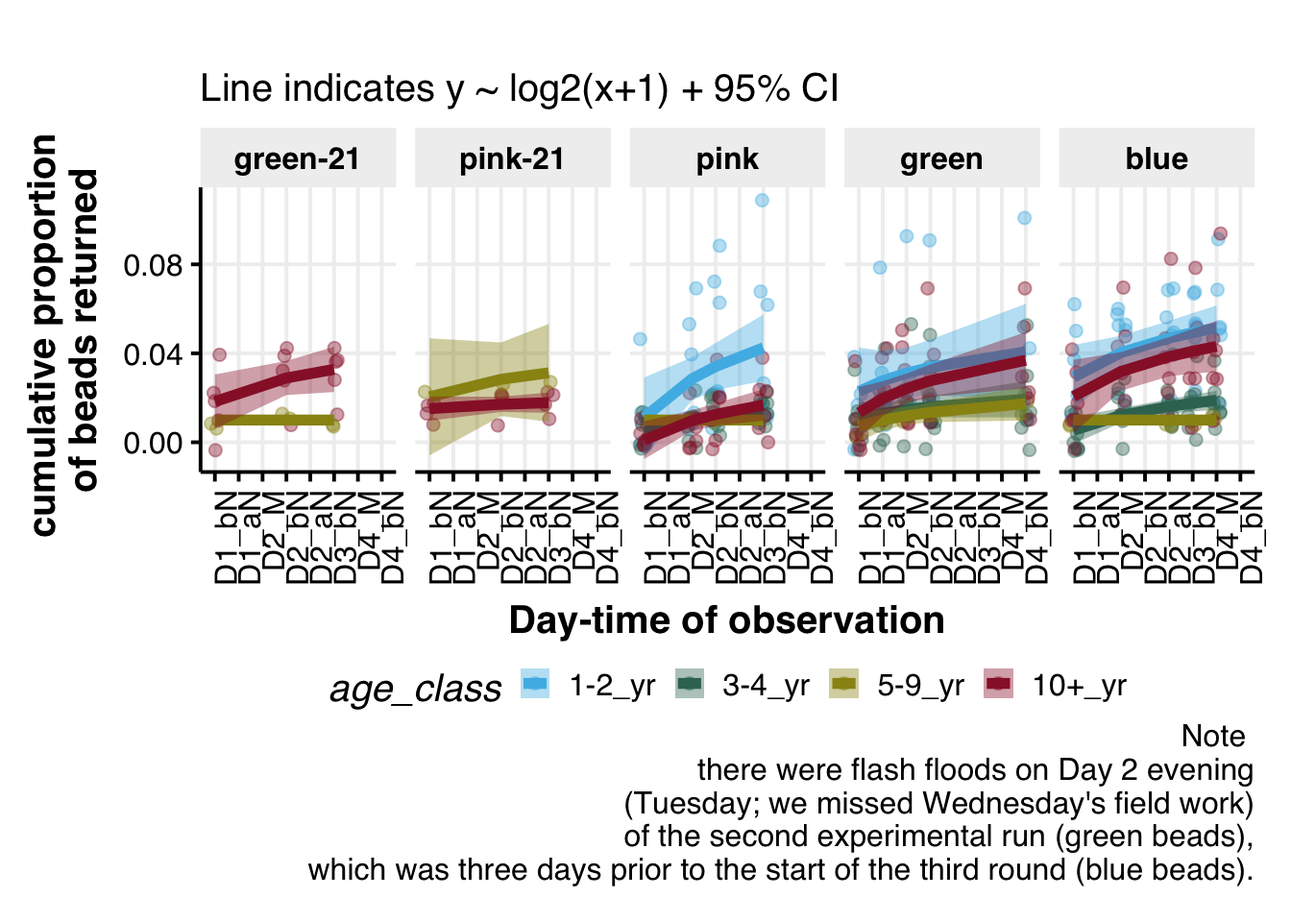
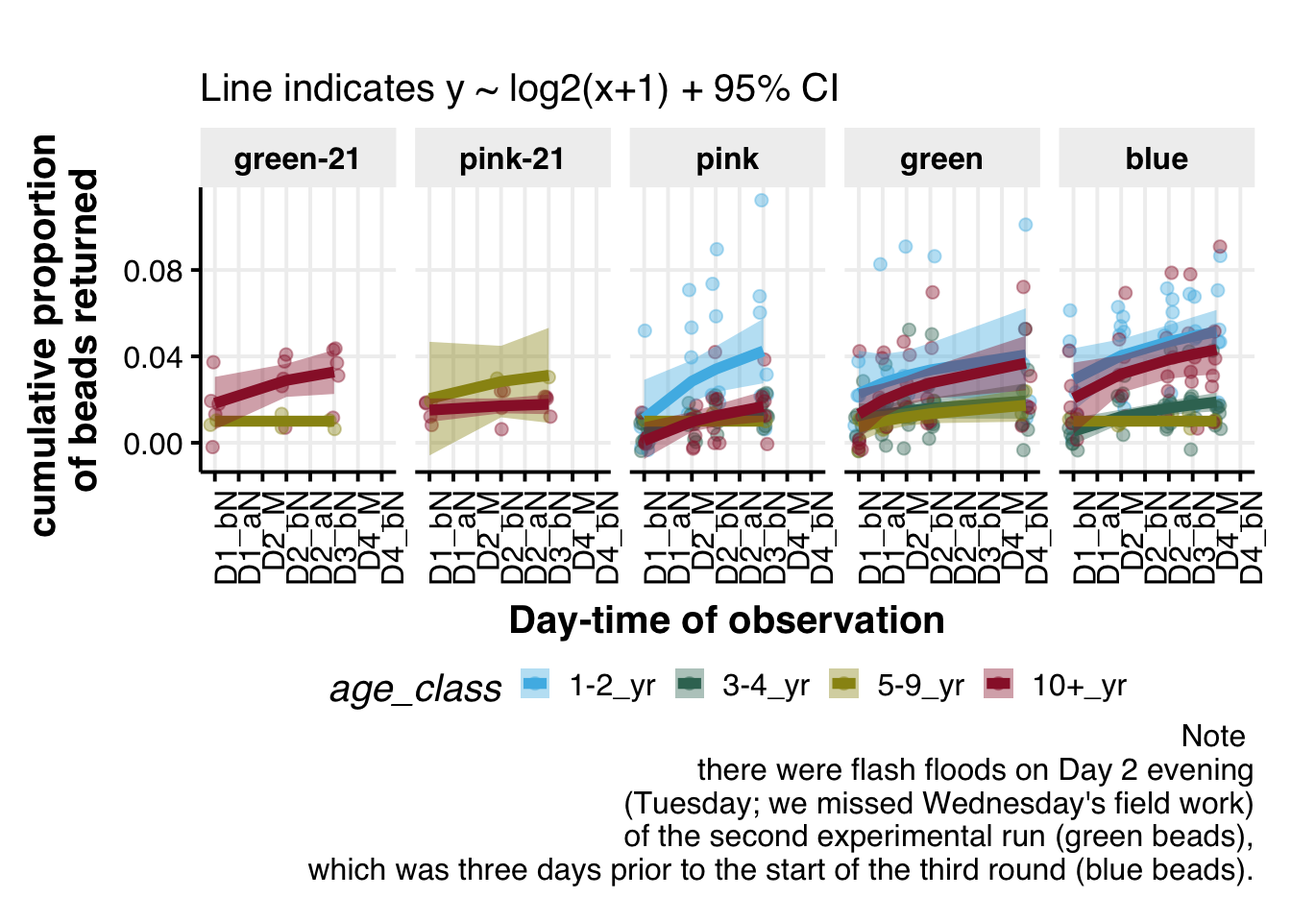
added forging data for bead colonies

diff --git a/docs/bead_data_2022.html b/docs/bead_data_2022.html
@@ -437,7 +437,7 @@ div.tocify {
 
 <h1 class="title toc-ignore">Deborah_bead_data</h1>
 <h4 class="author">Biplabendu Das</h4>
-<h4 class="date">07 September, 2022</h4>
+<h4 class="date">11 September, 2022</h4>
 
 </div>
 
@@ -1136,6 +1136,7 @@ s.tidydat.2022 &lt;-
   select(colonyID:bead_color,
          age_2022:age_class, 
          beads_collected,
+         foraging_30s,
          counted_when, cum_prop, s_cum_prop)
 
 
@@ -1158,7 +1159,7 @@ s.tidydat.2021 &lt;-
   mutate(colonyID = as.double(colonyID)) %&gt;%
   right_join(old.summ, by=c(&quot;colonyID&quot;, &quot;date&quot;, &quot;bead_color&quot;)) %&gt;% 
   
-  group_by(colonyID,bead_color) %&gt;% 
+  group_by(colonyID,bead_color) %&gt;%  
   mutate(foraging_30s = foraging_30s[1]) %&gt;% 
   mutate(obs_day = paste0(&quot;D&quot;,obs_day[1])) %&gt;% 
   ungroup() %&gt;% 
@@ -1171,6 +1172,7 @@ s.tidydat.2021 &lt;-
   select(colonyID:bead_color,
          age_2022:age_class, 
          beads_collected,
+         foraging_30s,
          counted_when, cum_prop, s_cum_prop)
 
 
@@ -1189,6 +1191,95 @@ s.tidydat &lt;-
   mutate(age_class = factor(age_class, 
                             levels = c(&quot;1-2_yr&quot;, &quot;3-4_yr&quot;,
                                        &quot;5-9_yr&quot;, &quot;10+_yr&quot;)))</code></pre>
+<div id="compare-foraging-across-age-class" class="section level3">
+<h3>Compare foraging across age-class</h3>
+<pre class="r"><code>s.tidydat %&gt;% 
+  select(colonyID, bead_color, age_obs, age_class, foraging_30s) %&gt;% 
+  distinct() %&gt;%
+  
+  # group_by(age_obs) %&gt;%
+  # summarize(n_unique = length(unique(colonyID)))
+  
+  ggplot(aes(x=as.factor(age_obs), y=foraging_30s)) +
+  
+  geom_violin(alpha=0.7) +
+    
+    geom_jitter(width = 0.1, size=3, alpha=0.6, 
+                aes(fill=as.factor(colonyID)), 
+                shape=21) +
+  
+    
+    # facet_wrap(bead_color~., nrow = 2) +
+    
+    # stat_summary(fun = mean, geom = &quot;point&quot;, col=&quot;black&quot;,
+    #              size=10, alpha=0.8,
+    #              position=position_nudge(x = 0.3, y = 0)) +
+    # stat_summary(fun.data = mean_cl_boot,
+    #              size=2, alpha = 0.8,
+    #              geom = &quot;errorbar&quot;, width = 0.2, fun.args = list(conf.int = 0.95),
+    #              position=position_nudge(x = 0.3, y = 0)) +
+
+    theme_Publication(base_size = 13) +
+
+    labs(title = &quot;Colony foraging across different age-groups&quot;,
+       subtitle = &quot;observations made on Day1 of bead expmts.&quot;,
+       y = &quot;activity \n(mean ± 95% CI)&quot;,
+       x = &quot;age-groups&quot;) +
+  
+    # scale_color_discrete() +
+    # scale_fill_discrete() +
+
+    # theme(legend.position=&quot;none&quot;) +
+
+    theme(plot.subtitle=element_text(hjust=0.5, size=10),
+          legend.title = element_blank()) +
+    theme(legend.position=&quot;bottom&quot;)</code></pre>
+<p><img src="bead_data_2022_files/figure-html/plot_foraging_ageclass-1.png" width="672" /></p>
+<pre class="r"><code>which.colonies &lt;- s.tidydat %&gt;% select(colonyID, age_obs, age_class) %&gt;% distinct()
+
+tidy.for %&gt;% 
+  select(date, colonyID=colony_ID, foraging_30s) %&gt;% 
+  right_join(which.colonies, by=&quot;colonyID&quot;) %&gt;% 
+  
+  ggplot(aes(x=as.factor(age_obs), y=foraging_30s)) +
+  
+  geom_boxplot(alpha=0.7) +
+    
+    geom_jitter(width = 0.1, size=2, alpha=0.6, 
+                aes(shape=as.factor(age_class))) +
+  
+    
+    # facet_wrap(bead_color~., nrow = 2) +
+    
+  stat_summary(fun.data = mean_cl_boot,
+                 col=&quot;red&quot;,
+                 size=1, alpha = 0.8,
+                 geom = &quot;errorbar&quot;, width = 0.2, fun.args = list(conf.int = 0.95),
+                 position=position_nudge(x = 0.4, y = 0)) +
+  stat_summary(fun = mean, geom = &quot;point&quot;, 
+               col=age_colors[4],
+                 size=4, alpha=0.9,
+                 position=position_nudge(x = 0.4, y = 0)) +
+
+    theme_Publication(base_size = 13) +
+
+    labs(title = &quot;Colony foraging across different age-groups&quot;,
+       subtitle = &quot;all observations made on bead colonies&quot;,
+       y = &quot;activity \n(mean ± 95% CI)&quot;,
+       x = &quot;age-groups&quot;) +
+  
+    # scale_color_discrete() +
+    # scale_fill_discrete() +
+
+    # theme(legend.position=&quot;none&quot;) +
+
+    theme(plot.subtitle=element_text(hjust=0.5, size=10),
+          legend.title = element_blank()) +
+    theme(legend.position=&quot;bottom&quot;)</code></pre>
+<p><img src="bead_data_2022_files/figure-html/plot_foraging_ageclass-2.png" width="672" /></p>
+</div>
+<div id="plot-normalized-bead-returns" class="section level3">
+<h3>Plot normalized bead returns</h3>
 <pre class="r"><code>s.tidydat %&gt;% 
   
   ggplot(aes(x=counted_when, y=s_cum_prop, fill=age_class, color=age_class, group=age_class)) +
@@ -1297,6 +1388,7 @@ s.tidydat %&gt;%
        data shown for all three rounds of bead experiment&quot;)</code></pre>
 <p><img src="bead_data_2022_files/figure-html/plot_normalized_bead_returns-3.png" width="672" /></p>
 </div>
+</div>
 <div id="prelim-analyses-i" class="section level2">
 <h2>Prelim Analyses I</h2>
 <pre class="r"><code>s.tidydat.mod &lt;- s.tidydat %&gt;% mutate(log_s_cum_prop = log2(s_cum_prop+1))
@@ -1357,8 +1449,8 @@ afex::mixed(log_s_cum_prop ~ age_class + counted_when + (1|colonyID) + (1|bead_c
 <pre class="r"><code>s.tidydat %&gt;% 
   select(colonyID, age_obs, bead_color, date, counted_when, cum_prop, s_cum_prop) %&gt;% 
   DT::datatable(rownames = F)</code></pre>
-<div id="htmlwidget-a4a7814db74a3252d700" style="width:100%;height:auto;" class="datatables html-widget"></div>
-<script type="application/json" data-for="htmlwidget-a4a7814db74a3252d700">{"x":{"filter":"none","data":[["810","810","810","810","810","810","922","922","922","922","922","922","961","961","961","969","969","969","1131","1131","1131","1131","1131","1131","1288","1288","1288","1338","1338","1338","1368","1368","1368","1393","1393","1393","1581","1581","1581","1581","1587","1587","1587","1587","1570","1570","1570","1570","1541","1541","1541","1541","1542","1542","1542","1542","1571","1571","1571","1571","1536","1536","1536","1536","1536","1536","1536","1536","1587","1587","1587","1587","1587","1570","1570","1570","1570","1570","1541","1541","1541","1541","1541","1542","1542","1542","1542","1542","1533","1533","1533","1533","1533","1552","1552","1552","1552","1552","1581","1581","1581","1581","1581","1587","1587","1587","1587","1587","1541","1541","1541","1541","1541","1542","1542","1542","1542","1542","1536","1536","1536","1536","1536","1533","1533","1533","1533","1533","1504","1504","1504","1504","1506","1506","1506","1506","1512","1512","1512","1512","1559","1559","1559","1559","1486","1486","1486","1486","1504","1504","1504","1504","1504","1506","1506","1506","1506","1506","1512","1512","1512","1512","1512","1559","1559","1559","1559","1559","1486","1486","1486","1486","1486","1503","1503","1503","1503","1503","1512","1512","1512","1512","1512","1559","1559","1559","1559","1559","1546","1546","1546","1546","1546","1486","1486","1486","1486","1486","1503","1503","1503","1503","1503","1452","1452","1452","1452","1450","1450","1450","1450","1440","1440","1440","1440","1452","1452","1452","1452","1452","1450","1450","1450","1450","1450","1452","1452","1452","1452","1452","1450","1450","1450","1450","1450","1440","1440","1440","1440","1440","1393","1393","1393","1393","1393","1393","1393","1393","1393","1393","1368","1368","1368","1368","1368","1368","1368","1368","1368","1368","1368","1368","1368","1368","1288","1288","1288","1288","1317","1317","1317","1317","1317","1288","1288","1288","1288","1288","1233","1233","1233","1233","1242","1242","1242","1242","1233","1233","1233","1233","1233","1242","1242","1242","1242","1242","1233","1233","1233","1233","1233","1242","1242","1242","1242","1242","1107","1107","1107","1107","1107","1107","1107","1107","1107","1017","1017","1017","1017","1017","1017","1017","1017","1017","1017","1131","1131","1131","1131","1131","1131","1131","1131","1131","810","810","810","810","810","810","810","810","810","810","810","810","810","810"],[24,24,24,24,24,24,21,21,21,21,21,21,21,21,21,21,21,21,20,20,20,20,20,20,10,10,10,7,7,7,7,7,7,6,6,6,2,2,2,2,2,2,2,2,2,2,2,2,2,2,2,2,2,2,2,2,2,2,2,2,2,2,2,2,2,2,2,2,2,2,2,2,2,2,2,2,2,2,2,2,2,2,2,2,2,2,2,2,2,2,2,2,2,2,2,2,2,2,2,2,2,2,2,2,2,2,2,2,2,2,2,2,2,2,2,2,2,2,2,2,2,2,2,2,2,2,2,2,3,3,3,3,3,3,3,3,3,3,3,3,3,3,3,3,3,3,3,3,3,3,3,3,3,3,3,3,3,3,3,3,3,3,3,3,3,3,3,3,3,3,3,3,3,3,3,3,3,3,3,3,3,3,3,3,3,3,3,3,3,3,3,3,3,3,3,3,3,3,3,3,3,3,3,4,4,4,4,4,4,4,4,4,4,4,4,4,4,4,4,4,4,4,4,4,4,4,4,4,4,4,4,4,4,4,4,4,4,4,4,4,7,7,7,7,7,7,7,7,7,7,8,8,8,8,8,8,8,8,8,8,8,8,8,8,11,11,11,11,11,11,11,11,11,11,11,11,11,11,12,12,12,12,12,12,12,12,12,12,12,12,12,12,12,12,12,12,12,12,12,12,12,12,12,12,12,12,17,17,17,17,17,17,17,17,17,20,20,20,20,20,20,20,20,20,20,21,21,21,21,21,21,21,21,21,25,25,25,25,25,25,25,25,25,25,25,25,25,25],["green-21","green-21","green-21","pink-21","pink-21","pink-21","green-21","green-21","green-21","pink-21","pink-21","pink-21","green-21","green-21","green-21","green-21","green-21","green-21","green-21","green-21","green-21","pink-21","pink-21","pink-21","pink-21","pink-21","pink-21","green-21","green-21","green-21","pink-21","pink-21","pink-21","green-21","green-21","green-21","pink","pink","pink","pink","pink","pink","pink","pink","pink","pink","pink","pink","pink","pink","pink","pink","pink","pink","pink","pink","pink","pink","pink","pink","pink","pink","pink","pink","pink","pink","pink","pink","green","green","green","green","green","green","green","green","green","green","green","green","green","green","green","green","green","green","green","green","green","green","green","green","green","blue","blue","blue","blue","blue","blue","blue","blue","blue","blue","blue","blue","blue","blue","blue","blue","blue","blue","blue","blue","blue","blue","blue","blue","blue","blue","blue","blue","blue","blue","blue","blue","blue","blue","blue","pink","pink","pink","pink","pink","pink","pink","pink","pink","pink","pink","pink","pink","pink","pink","pink","pink","pink","pink","pink","green","green","green","green","green","green","green","green","green","green","green","green","green","green","green","green","green","green","green","green","green","green","green","green","green","green","green","green","green","green","blue","blue","blue","blue","blue","blue","blue","blue","blue","blue","blue","blue","blue","blue","blue","blue","blue","blue","blue","blue","blue","blue","blue","blue","blue","pink","pink","pink","pink","pink","pink","pink","pink","pink","pink","pink","pink","green","green","green","green","green","green","green","green","green","green","blue","blue","blue","blue","blue","blue","blue","blue","blue","blue","blue","blue","blue","blue","blue","green","green","green","green","green","blue","blue","blue","blue","blue","pink","pink","pink","pink","green","green","green","green","green","blue","blue","blue","blue","blue","pink","pink","pink","pink","blue","blue","blue","blue","blue","blue","blue","blue","blue","blue","pink","pink","pink","pink","pink","pink","pink","pink","green","green","green","green","green","green","green","green","green","green","blue","blue","blue","blue","blue","blue","blue","blue","blue","blue","pink","pink","pink","pink","green","green","green","green","green","green","green","green","green","green","blue","blue","blue","blue","blue","pink","pink","pink","pink","green","green","green","green","green","pink","pink","pink","pink","green","green","green","green","green","blue","blue","blue","blue","blue"],["2021-08-24","2021-08-25","2021-08-26","2021-08-26","2021-08-27","2021-08-28","2021-08-23","2021-08-24","2021-08-25","2021-08-25","2021-08-26","2021-08-27","2021-08-24","2021-08-25","2021-08-26","2021-08-24","2021-08-25","2021-08-26","2021-08-23","2021-08-24","2021-08-25","2021-08-25","2021-08-26","2021-08-27","2021-08-26","2021-08-27","2021-08-28","2021-08-23","2021-08-24","2021-08-25","2021-08-25","2021-08-26","2021-08-27","2021-08-23","2021-08-24","2021-08-25","2022-08-16","2022-08-16","2022-08-16","2022-08-16","2022-08-16","2022-08-16","2022-08-16","2022-08-16","2022-08-16","2022-08-16","2022-08-16","2022-08-16","2022-08-16","2022-08-16","2022-08-16","2022-08-16","2022-08-16","2022-08-16","2022-08-16","2022-08-16","2022-08-16","2022-08-16","2022-08-16","2022-08-16","2022-08-16","2022-08-16","2022-08-16","2022-08-16","2022-08-16","2022-08-16","2022-08-16","2022-08-16","2022-08-22","2022-08-22","2022-08-22","2022-08-22","2022-08-22","2022-08-22","2022-08-22","2022-08-22","2022-08-22","2022-08-22","2022-08-22","2022-08-22","2022-08-22","2022-08-22","2022-08-22","2022-08-22","2022-08-22","2022-08-22","2022-08-22","2022-08-22","2022-08-22","2022-08-22","2022-08-22","2022-08-22","2022-08-22","2022-08-26","2022-08-26","2022-08-26","2022-08-26","2022-08-26","2022-08-26","2022-08-26","2022-08-26","2022-08-26","2022-08-26","2022-08-26","2022-08-26","2022-08-26","2022-08-26","2022-08-26","2022-08-26","2022-08-26","2022-08-26","2022-08-26","2022-08-26","2022-08-26","2022-08-26","2022-08-26","2022-08-26","2022-08-26","2022-08-26","2022-08-26","2022-08-26","2022-08-26","2022-08-26","2022-08-26","2022-08-26","2022-08-26","2022-08-26","2022-08-26","2022-08-16","2022-08-16","2022-08-16","2022-08-16","2022-08-16","2022-08-16","2022-08-16","2022-08-16","2022-08-16","2022-08-16","2022-08-16","2022-08-16","2022-08-16","2022-08-16","2022-08-16","2022-08-16","2022-08-16","2022-08-16","2022-08-16","2022-08-16","2022-08-22","2022-08-22","2022-08-22","2022-08-22","2022-08-22","2022-08-22","2022-08-22","2022-08-22","2022-08-22","2022-08-22","2022-08-22","2022-08-22","2022-08-22","2022-08-22","2022-08-22","2022-08-22","2022-08-22","2022-08-22","2022-08-22","2022-08-22","2022-08-22","2022-08-22","2022-08-22","2022-08-22","2022-08-22","2022-08-22","2022-08-22","2022-08-22","2022-08-22","2022-08-22","2022-08-26","2022-08-26","2022-08-26","2022-08-26","2022-08-26","2022-08-26","2022-08-26","2022-08-26","2022-08-26","2022-08-26","2022-08-26","2022-08-26","2022-08-26","2022-08-26","2022-08-26","2022-08-26","2022-08-26","2022-08-26","2022-08-26","2022-08-26","2022-08-26","2022-08-26","2022-08-26","2022-08-26","2022-08-26","2022-08-16","2022-08-16","2022-08-16","2022-08-16","2022-08-16","2022-08-16","2022-08-16","2022-08-16","2022-08-16","2022-08-16","2022-08-16","2022-08-16","2022-08-22","2022-08-22","2022-08-22","2022-08-22","2022-08-22","2022-08-22","2022-08-22","2022-08-22","2022-08-22","2022-08-22","2022-08-26","2022-08-26","2022-08-26","2022-08-26","2022-08-26","2022-08-26","2022-08-26","2022-08-26","2022-08-26","2022-08-26","2022-08-26","2022-08-26","2022-08-26","2022-08-26","2022-08-26","2022-08-22","2022-08-22","2022-08-22","2022-08-22","2022-08-22","2022-08-26","2022-08-26","2022-08-26","2022-08-26","2022-08-26","2022-08-16","2022-08-16","2022-08-16","2022-08-16","2022-08-22","2022-08-22","2022-08-22","2022-08-22","2022-08-22","2022-08-26","2022-08-26","2022-08-26","2022-08-26","2022-08-26","2022-08-16","2022-08-16","2022-08-16","2022-08-16","2022-08-26","2022-08-26","2022-08-26","2022-08-26","2022-08-26","2022-08-26","2022-08-26","2022-08-26","2022-08-26","2022-08-26","2022-08-16","2022-08-16","2022-08-16","2022-08-16","2022-08-16","2022-08-16","2022-08-16","2022-08-16","2022-08-22","2022-08-22","2022-08-22","2022-08-22","2022-08-22","2022-08-22","2022-08-22","2022-08-22","2022-08-22","2022-08-22","2022-08-26","2022-08-26","2022-08-26","2022-08-26","2022-08-26","2022-08-26","2022-08-26","2022-08-26","2022-08-26","2022-08-26","2022-08-16","2022-08-16","2022-08-16","2022-08-16","2022-08-22","2022-08-22","2022-08-22","2022-08-22","2022-08-22","2022-08-22","2022-08-22","2022-08-22","2022-08-22","2022-08-22","2022-08-26","2022-08-26","2022-08-26","2022-08-26","2022-08-26","2022-08-16","2022-08-16","2022-08-16","2022-08-16","2022-08-22","2022-08-22","2022-08-22","2022-08-22","2022-08-22","2022-08-16","2022-08-16","2022-08-16","2022-08-16","2022-08-22","2022-08-22","2022-08-22","2022-08-22","2022-08-22","2022-08-26","2022-08-26","2022-08-26","2022-08-26","2022-08-26"],["D1_bN","D2_bN","D3_bN","D1_bN","D2_bN","D3_bN","D1_bN","D2_bN","D3_bN","D1_bN","D2_bN","D3_bN","D1_bN","D2_bN","D3_bN","D1_bN","D2_bN","D3_bN","D1_bN","D2_bN","D3_bN","D1_bN","D2_bN","D3_bN","D1_bN","D2_bN","D3_bN","D1_bN","D2_bN","D3_bN","D1_bN","D2_bN","D3_bN","D1_bN","D2_bN","D3_bN","D1_bN","D2_M","D2_bN","D3_bN","D1_bN","D2_M","D2_bN","D3_bN","D1_bN","D2_M","D2_bN","D3_bN","D1_bN","D2_M","D2_bN","D3_bN","D1_bN","D2_M","D2_bN","D3_bN","D1_bN","D2_M","D2_bN","D3_bN","D1_bN","D1_bN","D2_M","D2_M","D2_bN","D2_bN","D3_bN","D3_bN","D1_bN","D1_aN","D2_M","D2_bN","D4_bN","D1_bN","D1_aN","D2_M","D2_bN","D4_bN","D1_bN","D1_aN","D2_M","D2_bN","D4_bN","D1_bN","D1_aN","D2_M","D2_bN","D4_bN","D1_bN","D1_aN","D2_M","D2_bN","D4_bN","D1_bN","D2_M","D2_aN","D3_bN","D4_M","D1_bN","D2_M","D2_aN","D3_bN","D4_M","D1_bN","D2_M","D2_aN","D3_bN","D4_M","D1_bN","D2_M","D2_aN","D3_bN","D4_M","D1_bN","D2_M","D2_aN","D3_bN","D4_M","D1_bN","D2_M","D2_aN","D3_bN","D4_M","D1_bN","D2_M","D2_aN","D3_bN","D4_M","D1_bN","D2_M","D2_bN","D3_bN","D1_bN","D2_M","D2_bN","D3_bN","D1_bN","D2_M","D2_bN","D3_bN","D1_bN","D2_M","D2_bN","D3_bN","D1_bN","D2_M","D2_bN","D3_bN","D1_bN","D1_aN","D2_M","D2_bN","D4_bN","D1_bN","D1_aN","D2_M","D2_bN","D4_bN","D1_bN","D1_aN","D2_M","D2_bN","D4_bN","D1_bN","D1_aN","D2_M","D2_bN","D4_bN","D1_bN","D1_aN","D2_M","D2_bN","D4_bN","D1_bN","D1_aN","D2_M","D2_bN","D4_bN","D1_bN","D2_M","D2_aN","D3_bN","D4_M","D1_bN","D2_M","D2_aN","D3_bN","D4_M","D1_bN","D2_M","D2_aN","D3_bN","D4_M","D1_bN","D2_M","D2_aN","D3_bN","D4_M","D1_bN","D2_M","D2_aN","D3_bN","D4_M","D1_bN","D2_M","D2_bN","D3_bN","D1_bN","D2_M","D2_bN","D3_bN","D1_bN","D2_M","D2_bN","D3_bN","D1_bN","D1_aN","D2_M","D2_bN","D4_bN","D1_bN","D1_aN","D2_M","D2_bN","D4_bN","D1_bN","D2_M","D2_aN","D3_bN","D4_M","D1_bN","D2_M","D2_aN","D3_bN","D4_M","D1_bN","D2_M","D2_aN","D3_bN","D4_M","D1_bN","D1_aN","D2_M","D2_bN","D4_bN","D1_bN","D2_M","D2_aN","D3_bN","D4_M","D1_bN","D2_M","D2_bN","D3_bN","D1_bN","D1_aN","D2_M","D2_bN","D4_bN","D1_bN","D2_M","D2_aN","D3_bN","D4_M","D1_bN","D2_M","D2_bN","D3_bN","D1_bN","D2_M","D2_aN","D3_bN","D4_M","D1_bN","D2_M","D2_aN","D3_bN","D4_M","D1_bN","D2_M","D2_bN","D3_bN","D1_bN","D2_M","D2_bN","D3_bN","D1_bN","D1_aN","D2_M","D2_bN","D4_bN","D1_bN","D1_aN","D2_M","D2_bN","D4_bN","D1_bN","D2_M","D2_aN","D3_bN","D4_M","D1_bN","D2_M","D2_aN","D3_bN","D4_M","D1_bN","D2_M","D2_bN","D3_bN","D1_bN","D1_aN","D2_M","D2_bN","D4_bN","D1_bN","D1_aN","D2_M","D2_bN","D4_bN","D1_bN","D2_M","D2_aN","D3_bN","D4_M","D1_bN","D2_M","D2_bN","D3_bN","D1_bN","D1_aN","D2_M","D2_bN","D4_bN","D1_bN","D2_M","D2_bN","D3_bN","D1_bN","D1_aN","D2_M","D2_bN","D4_bN","D1_bN","D2_M","D2_aN","D3_bN","D4_M"],[0.6,0.92,0.98,0.58,0.76,0.88,0.8,0.8,0.82,0.62,0.7,0.74,0.36,0.78,0.88,0.52,0.92,0.94,0.22,0.58,0.72,0.64,0.7,0.76,0.92,0.96,1,0.6,0.74,0.82,0.7,0.775,0.775,0.96,0.96,0.98,0.59,0.64,0.74,0.76,0.6,0.6,0.86,0.88,0.06,0.33,0.62,0.74,0.2,0.28,0.44,0.46,0.65,0.85,0.87,0.87,0.06,0.58,0.87,0.87,0.04,0.04,0.33,0.33,0.44,0.44,0.53,0.53,0.28,0.64,0.7,0.7,0.76,0.4,0.64,0.66,0.7,0.78,0.58,0.92,0.94,0.96,1,0.22,0.74,0.84,0.84,0.86,0.88,1.08,1.14,1.14,1.14,0.73,0.85,0.87,0.85,0.85,0.76,0.86,0.9,0.86,0.86,0.5,0.56,0.62,0.62,0.64,0.08,0.68,0.82,0.68,0.74,0.22,0.74,0.8,0.76,0.76,0,0.42,0.48,0.52,0.6,0.82,0.88,0.88,0.92,0.92,0.44,0.58,0.6,0.64,0.14,0.5,0.62,0.74,0.44,0.44,0.72,0.72,0.34,0.36,0.68,0.82,0.5,0.56,0.82,0.82,0.19,0.59,0.69,0.71,0.71,0.36,0.68,0.76,0.86,0.86,0.45,0.61,0.67,0.77,0.79,0.8,0.9,0.9,0.92,0.96,0.3,0.36,0.36,0.36,0.38,0.57,0.75,0.77,0.77,0.77,0.26,0.84,0.84,0.88,0.88,0.36,0.84,0.94,0.88,0.88,0.16,0.66,0.72,0.72,0.74,0.16,0.42,0.72,0.54,0.6,0.04,0.66,0.8,0.74,0.74,0.02,0.18,0.28,0.42,0.41,0.45,0.57,0.63,0.48,0.7,0.7,0.88,0.44,0.44,0.68,0.68,0.82,0.42,0.8,0.8,0.82,0.82,0.16,0.78,0.78,0.8,0.82,0.2,0.88,0.92,0.88,0.88,0.9,1.02,1.02,1.02,1.02,0.28,0.62,0.64,0.68,0.68,0.54,0.62,0.68,0.66,0.66,0.4,0.5,0.62,0.72,0.6,0.72,0.94,0.96,0.96,0.94,0.96,0.96,0.96,0.96,0.34,0.58,0.58,0.6,0,0.19,0.19,0.28,0.28,0.38,0.72,0.76,0.74,0.74,0.12,0.42,0.78,0.82,0,0,0.06,0.1,0.56,0.88,0.9,0.92,0.92,0.04,0.32,0.32,0.36,0.4,0.7,0.88,0.94,0.9,0.9,0.12,0.48,0.56,0.54,0.64,0.04,0.22,0.8,0.8,0.22,0.22,0.32,0.42,0.42,0.07,0.41,0.46,0.53,0.58,0.66,0.94,0.96,0.94,0.94,0.1,0.14,0.66,0.66,0,0.42,0.74,0.76,0.76,0.04,0.1,0.32,0.32,0.08,0.34,0.58,0.62,0.64,0.82,0.86,0.9,0.9,0.9],[0.02,0.03,0.03,0.01,0.02,0.02,0.04,0.04,0.04,0.02,0.02,0.02,0.01,0.03,0.04,0.02,0.04,0.04,0,0.01,0.01,0.01,0.01,0.01,0.02,0.02,0.02,0.01,0.01,0.01,0.02,0.03,0.03,0.01,0.01,0.01,0.01,0.01,0.02,0.02,0.05,0.05,0.07,0.07,0,0.01,0.02,0.03,0.01,0.01,0.02,0.02,0.01,0.01,0.01,0.01,0,0.04,0.06,0.06,0,0.01,0.01,0.07,0.01,0.09,0.01,0.11,0.04,0.08,0.09,0.09,0.1,0.02,0.03,0.03,0.03,0.04,0.01,0.02,0.02,0.02,0.02,0,0.01,0.01,0.01,0.01,0.02,0.02,0.02,0.02,0.02,0.05,0.05,0.05,0.05,0.05,0.04,0.05,0.05,0.05,0.05,0.06,0.06,0.07,0.07,0.07,0.01,0.05,0.06,0.05,0.05,0.01,0.02,0.02,0.02,0.02,0,0.06,0.07,0.07,0.09,0.02,0.02,0.02,0.02,0.02,0.01,0.01,0.01,0.01,0,0.02,0.02,0.02,0.01,0.01,0.02,0.02,0.01,0.01,0.01,0.02,0.01,0.01,0.02,0.02,0.01,0.02,0.02,0.02,0.02,0.01,0.02,0.02,0.03,0.03,0,0,0.01,0.01,0.01,0.01,0.01,0.01,0.01,0.01,0,0,0,0,0,0.03,0.04,0.05,0.05,0.05,0,0.01,0.01,0.01,0.01,0.01,0.02,0.02,0.02,0.02,0.01,0.03,0.04,0.04,0.04,0,0,0.01,0,0.01,0,0.02,0.02,0.02,0.02,0,0,0,0.01,0,0,0.01,0.01,0,0.01,0.01,0.01,0.01,0.01,0.01,0.01,0.01,0,0.01,0.01,0.01,0.01,0,0.01,0.01,0.01,0.01,0,0.02,0.02,0.02,0.02,0.01,0.01,0.01,0.01,0.01,0,0.01,0.01,0.01,0.01,0.01,0.01,0.01,0.01,0.01,0.01,0.01,0.01,0.01,0.01,0.01,0.02,0.02,0.02,0.01,0.01,0.01,0.01,0.01,0,0.01,0.01,0.01,0,0.02,0.02,0.03,0.03,0.01,0.03,0.03,0.03,0.03,0.01,0.02,0.04,0.04,0,0,0,0.01,0.01,0.02,0.02,0.02,0.02,0,0.04,0.04,0.04,0.05,0.03,0.04,0.04,0.04,0.04,0.02,0.07,0.08,0.08,0.09,0,0.01,0.02,0.02,0.04,0.04,0.05,0.07,0.07,0,0.01,0.01,0.01,0.01,0.01,0.01,0.01,0.01,0.01,0,0,0.02,0.02,0,0.02,0.03,0.03,0.03,0,0,0,0,0,0.01,0.01,0.01,0.02,0.04,0.05,0.05,0.05,0.05]],"container":"<table class=\"display\">\n  <thead>\n    <tr>\n      <th>colonyID<\/th>\n      <th>age_obs<\/th>\n      <th>bead_color<\/th>\n      <th>date<\/th>\n      <th>counted_when<\/th>\n      <th>cum_prop<\/th>\n      <th>s_cum_prop<\/th>\n    <\/tr>\n  <\/thead>\n<\/table>","options":{"columnDefs":[{"className":"dt-right","targets":[1,5,6]}],"order":[],"autoWidth":false,"orderClasses":false}},"evals":[],"jsHooks":[]}</script>
+<div id="htmlwidget-c10230ad0bd027ecd31b" style="width:100%;height:auto;" class="datatables html-widget"></div>
+<script type="application/json" data-for="htmlwidget-c10230ad0bd027ecd31b">{"x":{"filter":"none","data":[["810","810","810","810","810","810","922","922","922","922","922","922","961","961","961","969","969","969","1131","1131","1131","1131","1131","1131","1288","1288","1288","1338","1338","1338","1368","1368","1368","1393","1393","1393","1581","1581","1581","1581","1587","1587","1587","1587","1570","1570","1570","1570","1541","1541","1541","1541","1542","1542","1542","1542","1571","1571","1571","1571","1536","1536","1536","1536","1536","1536","1536","1536","1587","1587","1587","1587","1587","1570","1570","1570","1570","1570","1541","1541","1541","1541","1541","1542","1542","1542","1542","1542","1533","1533","1533","1533","1533","1552","1552","1552","1552","1552","1581","1581","1581","1581","1581","1587","1587","1587","1587","1587","1541","1541","1541","1541","1541","1542","1542","1542","1542","1542","1536","1536","1536","1536","1536","1533","1533","1533","1533","1533","1504","1504","1504","1504","1506","1506","1506","1506","1512","1512","1512","1512","1559","1559","1559","1559","1486","1486","1486","1486","1504","1504","1504","1504","1504","1506","1506","1506","1506","1506","1512","1512","1512","1512","1512","1559","1559","1559","1559","1559","1486","1486","1486","1486","1486","1503","1503","1503","1503","1503","1512","1512","1512","1512","1512","1559","1559","1559","1559","1559","1546","1546","1546","1546","1546","1486","1486","1486","1486","1486","1503","1503","1503","1503","1503","1452","1452","1452","1452","1450","1450","1450","1450","1440","1440","1440","1440","1452","1452","1452","1452","1452","1450","1450","1450","1450","1450","1452","1452","1452","1452","1452","1450","1450","1450","1450","1450","1440","1440","1440","1440","1440","1393","1393","1393","1393","1393","1393","1393","1393","1393","1393","1368","1368","1368","1368","1368","1368","1368","1368","1368","1368","1368","1368","1368","1368","1288","1288","1288","1288","1317","1317","1317","1317","1317","1288","1288","1288","1288","1288","1233","1233","1233","1233","1242","1242","1242","1242","1233","1233","1233","1233","1233","1242","1242","1242","1242","1242","1233","1233","1233","1233","1233","1242","1242","1242","1242","1242","1107","1107","1107","1107","1107","1107","1107","1107","1107","1017","1017","1017","1017","1017","1017","1017","1017","1017","1017","1131","1131","1131","1131","1131","1131","1131","1131","1131","810","810","810","810","810","810","810","810","810","810","810","810","810","810"],[24,24,24,24,24,24,21,21,21,21,21,21,21,21,21,21,21,21,20,20,20,20,20,20,10,10,10,7,7,7,7,7,7,6,6,6,2,2,2,2,2,2,2,2,2,2,2,2,2,2,2,2,2,2,2,2,2,2,2,2,2,2,2,2,2,2,2,2,2,2,2,2,2,2,2,2,2,2,2,2,2,2,2,2,2,2,2,2,2,2,2,2,2,2,2,2,2,2,2,2,2,2,2,2,2,2,2,2,2,2,2,2,2,2,2,2,2,2,2,2,2,2,2,2,2,2,2,2,3,3,3,3,3,3,3,3,3,3,3,3,3,3,3,3,3,3,3,3,3,3,3,3,3,3,3,3,3,3,3,3,3,3,3,3,3,3,3,3,3,3,3,3,3,3,3,3,3,3,3,3,3,3,3,3,3,3,3,3,3,3,3,3,3,3,3,3,3,3,3,3,3,3,3,4,4,4,4,4,4,4,4,4,4,4,4,4,4,4,4,4,4,4,4,4,4,4,4,4,4,4,4,4,4,4,4,4,4,4,4,4,7,7,7,7,7,7,7,7,7,7,8,8,8,8,8,8,8,8,8,8,8,8,8,8,11,11,11,11,11,11,11,11,11,11,11,11,11,11,12,12,12,12,12,12,12,12,12,12,12,12,12,12,12,12,12,12,12,12,12,12,12,12,12,12,12,12,17,17,17,17,17,17,17,17,17,20,20,20,20,20,20,20,20,20,20,21,21,21,21,21,21,21,21,21,25,25,25,25,25,25,25,25,25,25,25,25,25,25],["green-21","green-21","green-21","pink-21","pink-21","pink-21","green-21","green-21","green-21","pink-21","pink-21","pink-21","green-21","green-21","green-21","green-21","green-21","green-21","green-21","green-21","green-21","pink-21","pink-21","pink-21","pink-21","pink-21","pink-21","green-21","green-21","green-21","pink-21","pink-21","pink-21","green-21","green-21","green-21","pink","pink","pink","pink","pink","pink","pink","pink","pink","pink","pink","pink","pink","pink","pink","pink","pink","pink","pink","pink","pink","pink","pink","pink","pink","pink","pink","pink","pink","pink","pink","pink","green","green","green","green","green","green","green","green","green","green","green","green","green","green","green","green","green","green","green","green","green","green","green","green","green","blue","blue","blue","blue","blue","blue","blue","blue","blue","blue","blue","blue","blue","blue","blue","blue","blue","blue","blue","blue","blue","blue","blue","blue","blue","blue","blue","blue","blue","blue","blue","blue","blue","blue","blue","pink","pink","pink","pink","pink","pink","pink","pink","pink","pink","pink","pink","pink","pink","pink","pink","pink","pink","pink","pink","green","green","green","green","green","green","green","green","green","green","green","green","green","green","green","green","green","green","green","green","green","green","green","green","green","green","green","green","green","green","blue","blue","blue","blue","blue","blue","blue","blue","blue","blue","blue","blue","blue","blue","blue","blue","blue","blue","blue","blue","blue","blue","blue","blue","blue","pink","pink","pink","pink","pink","pink","pink","pink","pink","pink","pink","pink","green","green","green","green","green","green","green","green","green","green","blue","blue","blue","blue","blue","blue","blue","blue","blue","blue","blue","blue","blue","blue","blue","green","green","green","green","green","blue","blue","blue","blue","blue","pink","pink","pink","pink","green","green","green","green","green","blue","blue","blue","blue","blue","pink","pink","pink","pink","blue","blue","blue","blue","blue","blue","blue","blue","blue","blue","pink","pink","pink","pink","pink","pink","pink","pink","green","green","green","green","green","green","green","green","green","green","blue","blue","blue","blue","blue","blue","blue","blue","blue","blue","pink","pink","pink","pink","green","green","green","green","green","green","green","green","green","green","blue","blue","blue","blue","blue","pink","pink","pink","pink","green","green","green","green","green","pink","pink","pink","pink","green","green","green","green","green","blue","blue","blue","blue","blue"],["2021-08-24","2021-08-25","2021-08-26","2021-08-26","2021-08-27","2021-08-28","2021-08-23","2021-08-24","2021-08-25","2021-08-25","2021-08-26","2021-08-27","2021-08-24","2021-08-25","2021-08-26","2021-08-24","2021-08-25","2021-08-26","2021-08-23","2021-08-24","2021-08-25","2021-08-25","2021-08-26","2021-08-27","2021-08-26","2021-08-27","2021-08-28","2021-08-23","2021-08-24","2021-08-25","2021-08-25","2021-08-26","2021-08-27","2021-08-23","2021-08-24","2021-08-25","2022-08-16","2022-08-16","2022-08-16","2022-08-16","2022-08-16","2022-08-16","2022-08-16","2022-08-16","2022-08-16","2022-08-16","2022-08-16","2022-08-16","2022-08-16","2022-08-16","2022-08-16","2022-08-16","2022-08-16","2022-08-16","2022-08-16","2022-08-16","2022-08-16","2022-08-16","2022-08-16","2022-08-16","2022-08-16","2022-08-16","2022-08-16","2022-08-16","2022-08-16","2022-08-16","2022-08-16","2022-08-16","2022-08-22","2022-08-22","2022-08-22","2022-08-22","2022-08-22","2022-08-22","2022-08-22","2022-08-22","2022-08-22","2022-08-22","2022-08-22","2022-08-22","2022-08-22","2022-08-22","2022-08-22","2022-08-22","2022-08-22","2022-08-22","2022-08-22","2022-08-22","2022-08-22","2022-08-22","2022-08-22","2022-08-22","2022-08-22","2022-08-26","2022-08-26","2022-08-26","2022-08-26","2022-08-26","2022-08-26","2022-08-26","2022-08-26","2022-08-26","2022-08-26","2022-08-26","2022-08-26","2022-08-26","2022-08-26","2022-08-26","2022-08-26","2022-08-26","2022-08-26","2022-08-26","2022-08-26","2022-08-26","2022-08-26","2022-08-26","2022-08-26","2022-08-26","2022-08-26","2022-08-26","2022-08-26","2022-08-26","2022-08-26","2022-08-26","2022-08-26","2022-08-26","2022-08-26","2022-08-26","2022-08-16","2022-08-16","2022-08-16","2022-08-16","2022-08-16","2022-08-16","2022-08-16","2022-08-16","2022-08-16","2022-08-16","2022-08-16","2022-08-16","2022-08-16","2022-08-16","2022-08-16","2022-08-16","2022-08-16","2022-08-16","2022-08-16","2022-08-16","2022-08-22","2022-08-22","2022-08-22","2022-08-22","2022-08-22","2022-08-22","2022-08-22","2022-08-22","2022-08-22","2022-08-22","2022-08-22","2022-08-22","2022-08-22","2022-08-22","2022-08-22","2022-08-22","2022-08-22","2022-08-22","2022-08-22","2022-08-22","2022-08-22","2022-08-22","2022-08-22","2022-08-22","2022-08-22","2022-08-22","2022-08-22","2022-08-22","2022-08-22","2022-08-22","2022-08-26","2022-08-26","2022-08-26","2022-08-26","2022-08-26","2022-08-26","2022-08-26","2022-08-26","2022-08-26","2022-08-26","2022-08-26","2022-08-26","2022-08-26","2022-08-26","2022-08-26","2022-08-26","2022-08-26","2022-08-26","2022-08-26","2022-08-26","2022-08-26","2022-08-26","2022-08-26","2022-08-26","2022-08-26","2022-08-16","2022-08-16","2022-08-16","2022-08-16","2022-08-16","2022-08-16","2022-08-16","2022-08-16","2022-08-16","2022-08-16","2022-08-16","2022-08-16","2022-08-22","2022-08-22","2022-08-22","2022-08-22","2022-08-22","2022-08-22","2022-08-22","2022-08-22","2022-08-22","2022-08-22","2022-08-26","2022-08-26","2022-08-26","2022-08-26","2022-08-26","2022-08-26","2022-08-26","2022-08-26","2022-08-26","2022-08-26","2022-08-26","2022-08-26","2022-08-26","2022-08-26","2022-08-26","2022-08-22","2022-08-22","2022-08-22","2022-08-22","2022-08-22","2022-08-26","2022-08-26","2022-08-26","2022-08-26","2022-08-26","2022-08-16","2022-08-16","2022-08-16","2022-08-16","2022-08-22","2022-08-22","2022-08-22","2022-08-22","2022-08-22","2022-08-26","2022-08-26","2022-08-26","2022-08-26","2022-08-26","2022-08-16","2022-08-16","2022-08-16","2022-08-16","2022-08-26","2022-08-26","2022-08-26","2022-08-26","2022-08-26","2022-08-26","2022-08-26","2022-08-26","2022-08-26","2022-08-26","2022-08-16","2022-08-16","2022-08-16","2022-08-16","2022-08-16","2022-08-16","2022-08-16","2022-08-16","2022-08-22","2022-08-22","2022-08-22","2022-08-22","2022-08-22","2022-08-22","2022-08-22","2022-08-22","2022-08-22","2022-08-22","2022-08-26","2022-08-26","2022-08-26","2022-08-26","2022-08-26","2022-08-26","2022-08-26","2022-08-26","2022-08-26","2022-08-26","2022-08-16","2022-08-16","2022-08-16","2022-08-16","2022-08-22","2022-08-22","2022-08-22","2022-08-22","2022-08-22","2022-08-22","2022-08-22","2022-08-22","2022-08-22","2022-08-22","2022-08-26","2022-08-26","2022-08-26","2022-08-26","2022-08-26","2022-08-16","2022-08-16","2022-08-16","2022-08-16","2022-08-22","2022-08-22","2022-08-22","2022-08-22","2022-08-22","2022-08-16","2022-08-16","2022-08-16","2022-08-16","2022-08-22","2022-08-22","2022-08-22","2022-08-22","2022-08-22","2022-08-26","2022-08-26","2022-08-26","2022-08-26","2022-08-26"],["D1_bN","D2_bN","D3_bN","D1_bN","D2_bN","D3_bN","D1_bN","D2_bN","D3_bN","D1_bN","D2_bN","D3_bN","D1_bN","D2_bN","D3_bN","D1_bN","D2_bN","D3_bN","D1_bN","D2_bN","D3_bN","D1_bN","D2_bN","D3_bN","D1_bN","D2_bN","D3_bN","D1_bN","D2_bN","D3_bN","D1_bN","D2_bN","D3_bN","D1_bN","D2_bN","D3_bN","D1_bN","D2_M","D2_bN","D3_bN","D1_bN","D2_M","D2_bN","D3_bN","D1_bN","D2_M","D2_bN","D3_bN","D1_bN","D2_M","D2_bN","D3_bN","D1_bN","D2_M","D2_bN","D3_bN","D1_bN","D2_M","D2_bN","D3_bN","D1_bN","D1_bN","D2_M","D2_M","D2_bN","D2_bN","D3_bN","D3_bN","D1_bN","D1_aN","D2_M","D2_bN","D4_bN","D1_bN","D1_aN","D2_M","D2_bN","D4_bN","D1_bN","D1_aN","D2_M","D2_bN","D4_bN","D1_bN","D1_aN","D2_M","D2_bN","D4_bN","D1_bN","D1_aN","D2_M","D2_bN","D4_bN","D1_bN","D2_M","D2_aN","D3_bN","D4_M","D1_bN","D2_M","D2_aN","D3_bN","D4_M","D1_bN","D2_M","D2_aN","D3_bN","D4_M","D1_bN","D2_M","D2_aN","D3_bN","D4_M","D1_bN","D2_M","D2_aN","D3_bN","D4_M","D1_bN","D2_M","D2_aN","D3_bN","D4_M","D1_bN","D2_M","D2_aN","D3_bN","D4_M","D1_bN","D2_M","D2_bN","D3_bN","D1_bN","D2_M","D2_bN","D3_bN","D1_bN","D2_M","D2_bN","D3_bN","D1_bN","D2_M","D2_bN","D3_bN","D1_bN","D2_M","D2_bN","D3_bN","D1_bN","D1_aN","D2_M","D2_bN","D4_bN","D1_bN","D1_aN","D2_M","D2_bN","D4_bN","D1_bN","D1_aN","D2_M","D2_bN","D4_bN","D1_bN","D1_aN","D2_M","D2_bN","D4_bN","D1_bN","D1_aN","D2_M","D2_bN","D4_bN","D1_bN","D1_aN","D2_M","D2_bN","D4_bN","D1_bN","D2_M","D2_aN","D3_bN","D4_M","D1_bN","D2_M","D2_aN","D3_bN","D4_M","D1_bN","D2_M","D2_aN","D3_bN","D4_M","D1_bN","D2_M","D2_aN","D3_bN","D4_M","D1_bN","D2_M","D2_aN","D3_bN","D4_M","D1_bN","D2_M","D2_bN","D3_bN","D1_bN","D2_M","D2_bN","D3_bN","D1_bN","D2_M","D2_bN","D3_bN","D1_bN","D1_aN","D2_M","D2_bN","D4_bN","D1_bN","D1_aN","D2_M","D2_bN","D4_bN","D1_bN","D2_M","D2_aN","D3_bN","D4_M","D1_bN","D2_M","D2_aN","D3_bN","D4_M","D1_bN","D2_M","D2_aN","D3_bN","D4_M","D1_bN","D1_aN","D2_M","D2_bN","D4_bN","D1_bN","D2_M","D2_aN","D3_bN","D4_M","D1_bN","D2_M","D2_bN","D3_bN","D1_bN","D1_aN","D2_M","D2_bN","D4_bN","D1_bN","D2_M","D2_aN","D3_bN","D4_M","D1_bN","D2_M","D2_bN","D3_bN","D1_bN","D2_M","D2_aN","D3_bN","D4_M","D1_bN","D2_M","D2_aN","D3_bN","D4_M","D1_bN","D2_M","D2_bN","D3_bN","D1_bN","D2_M","D2_bN","D3_bN","D1_bN","D1_aN","D2_M","D2_bN","D4_bN","D1_bN","D1_aN","D2_M","D2_bN","D4_bN","D1_bN","D2_M","D2_aN","D3_bN","D4_M","D1_bN","D2_M","D2_aN","D3_bN","D4_M","D1_bN","D2_M","D2_bN","D3_bN","D1_bN","D1_aN","D2_M","D2_bN","D4_bN","D1_bN","D1_aN","D2_M","D2_bN","D4_bN","D1_bN","D2_M","D2_aN","D3_bN","D4_M","D1_bN","D2_M","D2_bN","D3_bN","D1_bN","D1_aN","D2_M","D2_bN","D4_bN","D1_bN","D2_M","D2_bN","D3_bN","D1_bN","D1_aN","D2_M","D2_bN","D4_bN","D1_bN","D2_M","D2_aN","D3_bN","D4_M"],[0.6,0.92,0.98,0.58,0.76,0.88,0.8,0.8,0.82,0.62,0.7,0.74,0.36,0.78,0.88,0.52,0.92,0.94,0.22,0.58,0.72,0.64,0.7,0.76,0.92,0.96,1,0.6,0.74,0.82,0.7,0.775,0.775,0.96,0.96,0.98,0.59,0.64,0.74,0.76,0.6,0.6,0.86,0.88,0.06,0.33,0.62,0.74,0.2,0.28,0.44,0.46,0.65,0.85,0.87,0.87,0.06,0.58,0.87,0.87,0.04,0.04,0.33,0.33,0.44,0.44,0.53,0.53,0.28,0.64,0.7,0.7,0.76,0.4,0.64,0.66,0.7,0.78,0.58,0.92,0.94,0.96,1,0.22,0.74,0.84,0.84,0.86,0.88,1.08,1.14,1.14,1.14,0.73,0.85,0.87,0.85,0.85,0.76,0.86,0.9,0.86,0.86,0.5,0.56,0.62,0.62,0.64,0.08,0.68,0.82,0.68,0.74,0.22,0.74,0.8,0.76,0.76,0,0.42,0.48,0.52,0.6,0.82,0.88,0.88,0.92,0.92,0.44,0.58,0.6,0.64,0.14,0.5,0.62,0.74,0.44,0.44,0.72,0.72,0.34,0.36,0.68,0.82,0.5,0.56,0.82,0.82,0.19,0.59,0.69,0.71,0.71,0.36,0.68,0.76,0.86,0.86,0.45,0.61,0.67,0.77,0.79,0.8,0.9,0.9,0.92,0.96,0.3,0.36,0.36,0.36,0.38,0.57,0.75,0.77,0.77,0.77,0.26,0.84,0.84,0.88,0.88,0.36,0.84,0.94,0.88,0.88,0.16,0.66,0.72,0.72,0.74,0.16,0.42,0.72,0.54,0.6,0.04,0.66,0.8,0.74,0.74,0.02,0.18,0.28,0.42,0.41,0.45,0.57,0.63,0.48,0.7,0.7,0.88,0.44,0.44,0.68,0.68,0.82,0.42,0.8,0.8,0.82,0.82,0.16,0.78,0.78,0.8,0.82,0.2,0.88,0.92,0.88,0.88,0.9,1.02,1.02,1.02,1.02,0.28,0.62,0.64,0.68,0.68,0.54,0.62,0.68,0.66,0.66,0.4,0.5,0.62,0.72,0.6,0.72,0.94,0.96,0.96,0.94,0.96,0.96,0.96,0.96,0.34,0.58,0.58,0.6,0,0.19,0.19,0.28,0.28,0.38,0.72,0.76,0.74,0.74,0.12,0.42,0.78,0.82,0,0,0.06,0.1,0.56,0.88,0.9,0.92,0.92,0.04,0.32,0.32,0.36,0.4,0.7,0.88,0.94,0.9,0.9,0.12,0.48,0.56,0.54,0.64,0.04,0.22,0.8,0.8,0.22,0.22,0.32,0.42,0.42,0.07,0.41,0.46,0.53,0.58,0.66,0.94,0.96,0.94,0.94,0.1,0.14,0.66,0.66,0,0.42,0.74,0.76,0.76,0.04,0.1,0.32,0.32,0.08,0.34,0.58,0.62,0.64,0.82,0.86,0.9,0.9,0.9],[0.02,0.03,0.03,0.01,0.02,0.02,0.04,0.04,0.04,0.02,0.02,0.02,0.01,0.03,0.04,0.02,0.04,0.04,0,0.01,0.01,0.01,0.01,0.01,0.02,0.02,0.02,0.01,0.01,0.01,0.02,0.03,0.03,0.01,0.01,0.01,0.01,0.01,0.02,0.02,0.05,0.05,0.07,0.07,0,0.01,0.02,0.03,0.01,0.01,0.02,0.02,0.01,0.01,0.01,0.01,0,0.04,0.06,0.06,0,0.01,0.01,0.07,0.01,0.09,0.01,0.11,0.04,0.08,0.09,0.09,0.1,0.02,0.03,0.03,0.03,0.04,0.01,0.02,0.02,0.02,0.02,0,0.01,0.01,0.01,0.01,0.02,0.02,0.02,0.02,0.02,0.05,0.05,0.05,0.05,0.05,0.04,0.05,0.05,0.05,0.05,0.06,0.06,0.07,0.07,0.07,0.01,0.05,0.06,0.05,0.05,0.01,0.02,0.02,0.02,0.02,0,0.06,0.07,0.07,0.09,0.02,0.02,0.02,0.02,0.02,0.01,0.01,0.01,0.01,0,0.02,0.02,0.02,0.01,0.01,0.02,0.02,0.01,0.01,0.01,0.02,0.01,0.01,0.02,0.02,0.01,0.02,0.02,0.02,0.02,0.01,0.02,0.02,0.03,0.03,0,0,0.01,0.01,0.01,0.01,0.01,0.01,0.01,0.01,0,0,0,0,0,0.03,0.04,0.05,0.05,0.05,0,0.01,0.01,0.01,0.01,0.01,0.02,0.02,0.02,0.02,0.01,0.03,0.04,0.04,0.04,0,0,0.01,0,0.01,0,0.02,0.02,0.02,0.02,0,0,0,0.01,0,0,0.01,0.01,0,0.01,0.01,0.01,0.01,0.01,0.01,0.01,0.01,0,0.01,0.01,0.01,0.01,0,0.01,0.01,0.01,0.01,0,0.02,0.02,0.02,0.02,0.01,0.01,0.01,0.01,0.01,0,0.01,0.01,0.01,0.01,0.01,0.01,0.01,0.01,0.01,0.01,0.01,0.01,0.01,0.01,0.01,0.02,0.02,0.02,0.01,0.01,0.01,0.01,0.01,0,0.01,0.01,0.01,0,0.02,0.02,0.03,0.03,0.01,0.03,0.03,0.03,0.03,0.01,0.02,0.04,0.04,0,0,0,0.01,0.01,0.02,0.02,0.02,0.02,0,0.04,0.04,0.04,0.05,0.03,0.04,0.04,0.04,0.04,0.02,0.07,0.08,0.08,0.09,0,0.01,0.02,0.02,0.04,0.04,0.05,0.07,0.07,0,0.01,0.01,0.01,0.01,0.01,0.01,0.01,0.01,0.01,0,0,0.02,0.02,0,0.02,0.03,0.03,0.03,0,0,0,0,0,0.01,0.01,0.01,0.02,0.04,0.05,0.05,0.05,0.05]],"container":"<table class=\"display\">\n  <thead>\n    <tr>\n      <th>colonyID<\/th>\n      <th>age_obs<\/th>\n      <th>bead_color<\/th>\n      <th>date<\/th>\n      <th>counted_when<\/th>\n      <th>cum_prop<\/th>\n      <th>s_cum_prop<\/th>\n    <\/tr>\n  <\/thead>\n<\/table>","options":{"columnDefs":[{"className":"dt-right","targets":[1,5,6]}],"order":[],"autoWidth":false,"orderClasses":false}},"evals":[],"jsHooks":[]}</script>
 </div>
 
 
